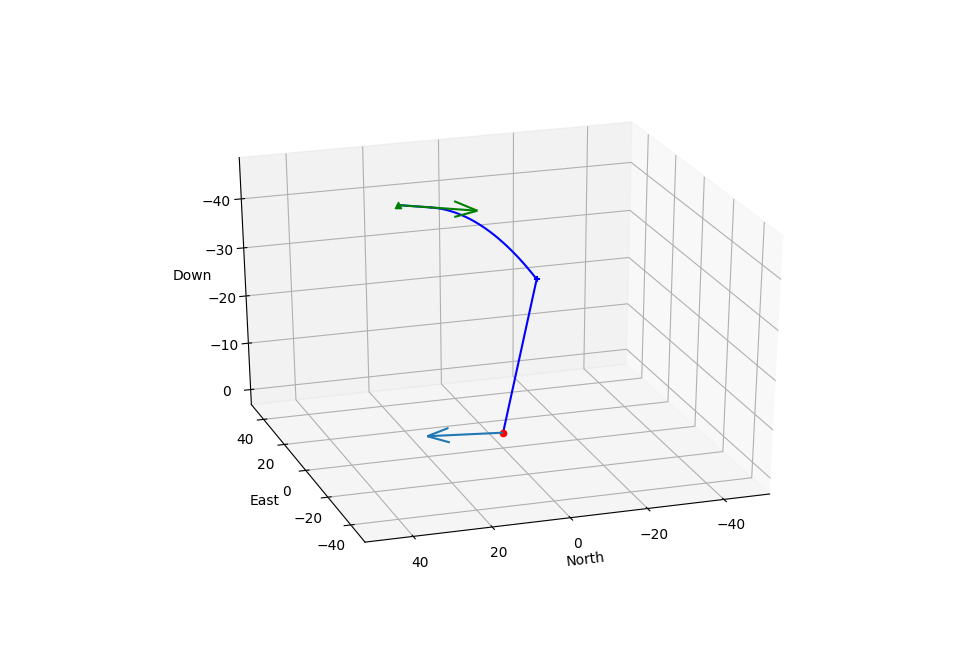
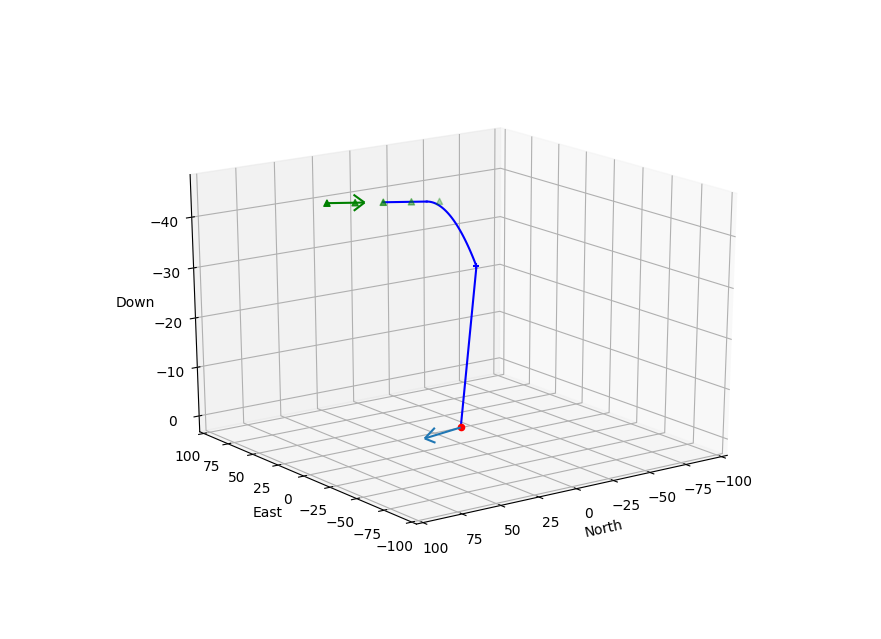
payload planner with supporting waypoints

Changed region(s): [[0.1839, 0.2081, 0.8581, 0.8623], [0.1226, 0.446, 0.1839, 0.4757], [0.2145, 0.7136, 0.2452, 0.7433]]

diff --git a/missionPlanner/payloadPlanner.py b/missionPlanner/payloadPlanner.py
@@ -18,6 +18,7 @@ class PayloadPlanner():
         self.drop_altitude = 45.0                   # altitude for waypoints in meters above 0.0 of ground station
         self.time_delay = 1.4                       # seconds between command to open and baydoor opening
         self.time_to_open_parachute = 1.61          # seconds between baydoor opening and parachute opening
+        self.ff = 1.0                               # fudge factor for closed parachute drag
         self.terminal_velocity = 3.59               # from experimental data [m/s]
         self.Va = 17.5  # pull from                 # competition design Va [m/s]
         self.gravity = 9.8147 # pull from yaml      # acceleration of gravity [m/s**2]
@@ -25,8 +26,7 @@ class PayloadPlanner():
         self.NED_parachute_open = np.array([0.0,0.0,0.0])   # location where the parachute oepns [N, E, D]
         self.NED_release_location = np.array([0.0,0.0,0.0]) # location where the command to relase should be given [N, E, D]
         self.waypoint_spread = 15.0                 # distance between supporting waypoints in meters
-        self.ff = 1.0                               # fudge factor for closed parachute drag
-
+        self.supporting_points = 2                   # number of supporting waypoints on either side of drop waypoint
 
     def plan(self,wind):
         """
@@ -38,13 +38,12 @@ class PayloadPlanner():
         self.displacement1_2 = self.calcOpenParachuteDrop()
         self.calcReleaseLocation(self.displacement0_1,self.displacement1_2)
         self.waypoints = self.calcSupportingPoints()
-        return self.waypoints
+        return self.waypoints.tolist()
 
     def calcClosedParachuteDrop(self):
         """
         Calculates the motion between the commanded relase and the parachute opening
         """
-
         V0_north = self.Va*np.cos(self.course_command) + self.wind.item(0)  # initial north velocity in inertial frame
         V0_east = self.Va*np.sin(self.course_command) + self.wind.item(1)   # initial east velocity in inertial frame
         V0_down = self.wind.item(2)                                         # initial down velocity in inertial frame
@@ -89,21 +88,31 @@ class PayloadPlanner():
         psi_wind = np.arctan2(wind_east,wind_north)
         course_command = np.arctan2(-wind_east,-wind_north)
         self.course_command = course_command
-        """
-        print(course_command)
-        plt.arrow(0.0,0.0,np.sin(course_command),np.cos(course_command))
-        plt.arrow(0.0,0.0,wind_east,wind_north)
-        plt.show()
-        """
 
     def calcSupportingPoints(self):
         """
         given a command release location plot X points for a straight line of deployment run
         """
-        waypoints = self.NED_release_location
+        length = self.supporting_points*2 + 1
+        waypoints = np.zeros((length,3))
+        # North and East difference at course angle for given distance between waypoints
+        dNorth = self.waypoint_spread*np.cos(self.course_command)
+        dEast = self.waypoint_spread*np.sin(self.course_command)
+        # create waypoints before the release location
+        for ii in range(self.supporting_points):
+            print(ii,(self.supporting_points-ii)*np.array([dNorth,dEast,0.0]))
+            waypoints[ii] = self.NED_release_location - (self.supporting_points-ii)*np.array([dNorth,dEast,0.0])
+        # add the release location waypoint
+        waypoints[self.supporting_points] = self.NED_release_location
+        # create waypoints after the release location
+        for ii in range(self.supporting_points):
+            waypoints[ii+self.supporting_points+1] = self.NED_release_location + (ii+1.0)*np.array([dNorth,dEast,0.0])
         return waypoints
 
     def plot(self):
+        """
+        Plots the waypoints, wind, and drop path
+        """
         from mpl_toolkits.mplot3d import Axes3D
         fig = plt.figure()
         ax = fig.add_subplot(111, projection='3d')
@@ -136,15 +145,14 @@ class PayloadPlanner():
         ax.plot([self.NED_parachute_open.item(0),self.dropLocation.item(0)],[self.NED_parachute_open.item(1),self.dropLocation.item(1)],[self.NED_parachute_open.item(2),self.dropLocation.item(2)],c='b')
 
         # release Location
-        ax.scatter(self.waypoints.item(0),self.waypoints.item(1),self.waypoints.item(2), c='g', marker='^')
+        ax.scatter(self.waypoints[:,0],self.waypoints[:,1],self.waypoints[:,2], c='g', marker='^')
         ax.quiver(self.waypoints.item(0),self.waypoints.item(1),self.waypoints.item(2),np.cos(test.course_command),np.sin(test.course_command),0.,length=20.0,color='g')
 
         ax.set_xlabel('North')
         ax.set_ylabel('East')
         ax.set_zlabel('Down')
         ax.view_init(azim=76.,elev=-162.)
-        ax.axis([-50.,50.,-50.,50.])
-        print("sup")
+        ax.axis([-100.,100.,-100.,100.])
         plt.show()
 
 dropLocation = np.array([0.0,0.0,0.0])
@@ -153,4 +161,5 @@ obstacles = np.array([0.0,0.0,0.0])
 boundaries = np.array([0.0,0.0,0.0])
 test = PayloadPlanner(dropLocation,wind,obstacles,boundaries)
 result = test.plan(wind)
+print(result)
 test.plot()

diff --git a/missionPlanner/README.md b/missionPlanner/README.md
@@ -26,7 +26,7 @@ the parachute is fully open.
 2. Time delay between the bay door opening is constant and known (through experimentation)
 3. Height difference is calculated between when the bay door opens and when the parachute opens
 4. Wind is steady state (no gusts)
-5. The only force acting on the payload is gravity (no aerodynamic drag, etc.) 
+5. The only force acting on the payload is gravity (no aerodynamic drag, etc.)
 
 ### Parachute Open to Target
 The second region is between when the parachute opens to when the payload hits the ground target
@@ -34,6 +34,10 @@ The second region is between when the parachute opens to when the payload hits t
 1. Payload descends down at a constant rate which is known (through experimentation)
 2. Payload moves in the North and East directions at the speed of the wind
 3. No aerodynamic drag, acceleration
+
+### Supporting Waypoints
+The final step of  the payload planner is to create supporting waypoints (green triangles) so that
+the plane is flying in a straight line when it drops the payload. 
 
 ## Current Task
 This is a description about this planner
